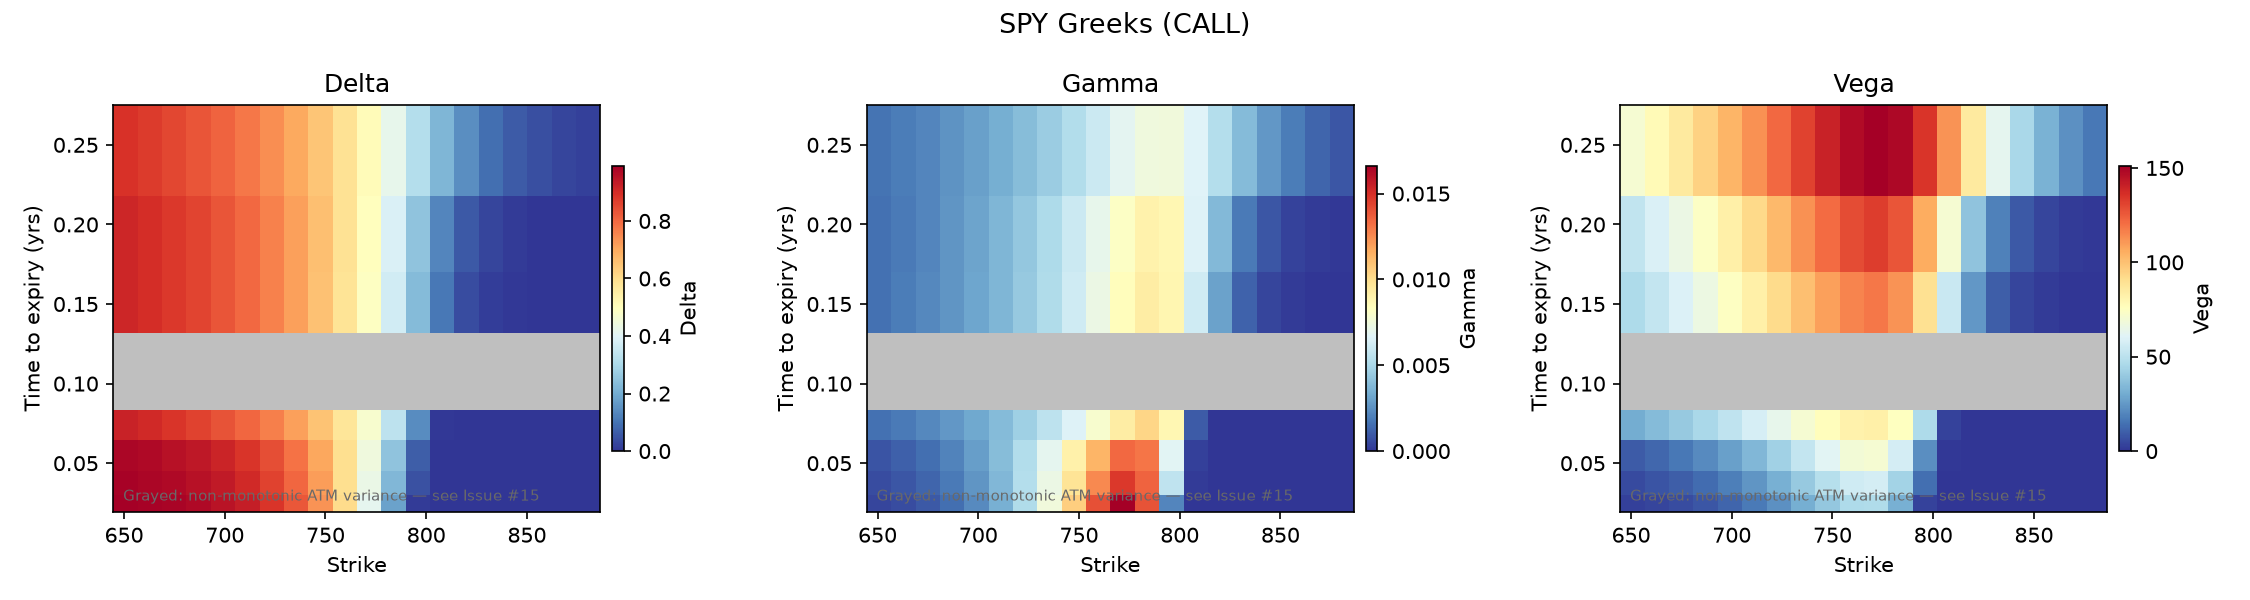
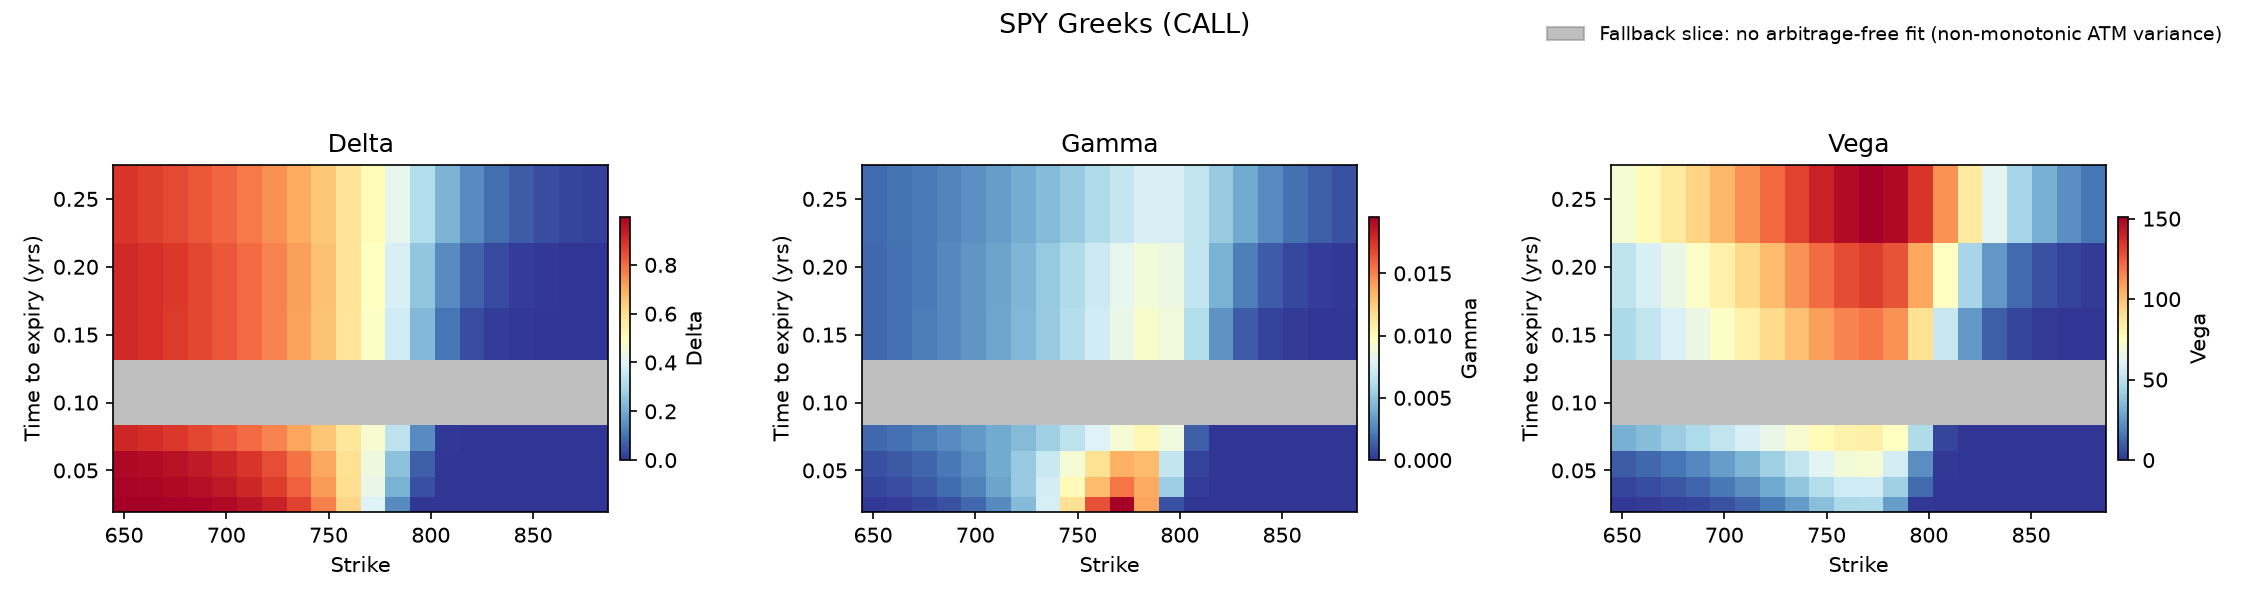
viz: replace in-graph fallback text with a proper legend under the heading
The grayed fallback rows were explained by a dim ax.text() inside the
heatmap, sitting over dark cells and barely visible.  All three plot
modules now draw a real legend entry instead:

- viz/surface.py (IV heatmap) and viz/local_vol.py (Dupire): axes-level
  legend anchored just above the axes, under the title; title pad
  reserves the band so tight_layout keeps it inside the figure.
- viz/risk.py (Greeks): one figure-level legend between the suptitle
  and the panel titles (right-aligned), replacing three per-panel texts.

plotting/masking.py gains FALLBACK_BAD_RGBA + fallback_legend_handle()
as the single source of truth: the legend swatch uses exactly the RGBA
the colormaps paint masked cells with, so swatch and cells cannot
drift.  The three inline copies of the literal are gone.

Regenerated demo PNGs verified visually: legend readable on all three,
no clipping, no title collisions.

diff --git a/src/arbfree_vol/viz/surface.py b/src/arbfree_vol/viz/surface.py
@@ -9,6 +9,10 @@ from matplotlib import cm
 from scipy.interpolate import griddata
 
 from arbfree_vol.models.fitted import FittedSlice
+from arbfree_vol.plotting.masking import (
+    FALLBACK_BAD_RGBA,
+    fallback_legend_handle,
+)
 from arbfree_vol.svi.model import svi_total_variance
 from arbfree_vol.surface.interpolate import FittedSurface, iv_at
 
@@ -207,7 +211,7 @@ def plot_iv_heatmap(
     fallback_slices:
         Optional list of T values that used the eSSVI fallback path.
         If provided, those maturity columns are grayed out in the plot
-        and an annotation is added.
+        and a legend explaining them is added under the plot heading.
     strike_range:
         Optional ``(low, high)`` pair of spot-price multipliers defining
         the strike grid.  Defaults to ``(0.8, 1.2)``.
@@ -238,11 +242,10 @@ def plot_iv_heatmap(
     cmap = matplotlib.colormaps["plasma"].copy()
     if fallback_slices:
         # with_extremes replaces the deprecated set_bad API (matplotlib >= 3.7
-        # deprecation); the bad color is passed as an RGBA tuple because
-        # with_extremes has no alpha keyword. It returns a new colormap rather
-        # than mutating in place, so the result must be assigned back.
-        cmap = cmap.with_extremes(bad=(0.5019607843137255, 0.5019607843137255,
-                                       0.5019607843137255, 0.5))
+        # deprecation). It returns a new colormap rather than mutating in
+        # place, so the result must be assigned back.  The bad RGBA is the
+        # shared fallback gray -- same constant the legend swatch uses.
+        cmap = cmap.with_extremes(bad=FALLBACK_BAD_RGBA)
 
     mesh = ax.pcolormesh(strikes, maturities, iv_grid,
                          cmap=cmap, shading="auto")
@@ -250,19 +253,26 @@ def plot_iv_heatmap(
     cb = fig.colorbar(mesh, ax=ax, shrink=0.7, aspect=25, pad=0.02)
     cb.set_label("Implied volatility")
 
+    # Fallback legend ABOVE the axes (under the heading), not inside the
+    # plot: a legend row here is always readable, unlike an in-graph text
+    # annotation over dark heatmap cells.  The extra title pad reserves
+    # the band between axes top and title for the legend so tight_layout
+    # keeps both inside the figure.
     if fallback_slices:
-        ax.text(
-            0.02, 0.02,
-            "Grayed region: non-monotonic ATM variance — see Issue #15",
-            transform=ax.transAxes,
-            fontsize=8,
-            color="dimgray",
-            verticalalignment="bottom",
+        ax.legend(
+            handles=[fallback_legend_handle()],
+            loc="lower left",
+            bbox_to_anchor=(0.0, 1.01),
+            frameon=False,
+            fontsize=9,
         )
+        title_pad = 30
+    else:
+        title_pad = 6
 
     ax.set_xlabel("Strike")
     ax.set_ylabel("Time to expiry (yrs)")
-    ax.set_title(f"{symbol} implied volatility surface (iv_at)")
+    ax.set_title(f"{symbol} implied volatility surface (iv_at)", pad=title_pad)
 
     fig.tight_layout()
     return fig

diff --git a/src/arbfree_vol/viz/risk.py b/src/arbfree_vol/viz/risk.py
@@ -4,6 +4,10 @@ import numpy as np
 from matplotlib.figure import Figure
 
 from arbfree_vol.models.option import OptionType
+from arbfree_vol.plotting.masking import (
+    FALLBACK_BAD_RGBA,
+    fallback_legend_handle,
+)
 from arbfree_vol.surface.greeks import bucketed_greeks
 from arbfree_vol.surface.interpolate import FittedSurface
 
@@ -34,7 +38,8 @@ def plot_greeks_heatmap(
     fallback_slices:
         Optional list of T values that used the eSSVI fallback path.
         If provided, those maturity rows are grayed out in the heatmap
-        and an annotation is added.
+        If provided, a legend explaining the gray rows is added under the
+        plot heading.
 
     Returns
     -------
@@ -75,12 +80,11 @@ def plot_greeks_heatmap(
         cmap = matplotlib.colormaps["RdYlBu_r"].copy()
         if fallback_slices:
             # with_extremes replaces the deprecated set_bad API (matplotlib
-            # >= 3.7 deprecation); the bad color is passed as an RGBA tuple
-            # because with_extremes has no alpha keyword. It returns a new
-            # colormap rather than mutating in place, so the result must be
-            # assigned back.
-            cmap = cmap.with_extremes(bad=(0.5019607843137255, 0.5019607843137255,
-                                           0.5019607843137255, 0.5))
+            # >= 3.7 deprecation). It returns a new colormap rather than
+            # mutating in place, so the result must be assigned back.  The
+            # bad RGBA is the shared fallback gray -- same constant the
+            # legend swatch uses.
+            cmap = cmap.with_extremes(bad=FALLBACK_BAD_RGBA)
 
         mesh = ax.pcolormesh(strike_mesh, T_mesh, data,
                              cmap=cmap, shading="auto")
@@ -90,16 +94,20 @@ def plot_greeks_heatmap(
         ax.set_ylabel("Time to expiry (yrs)")
         ax.set_title(name.capitalize())
 
-        if fallback_slices:
-            ax.text(
-                0.02, 0.02,
-                "Grayed: non-monotonic ATM variance — see Issue #15",
-                transform=ax.transAxes,
-                fontsize=7,
-                color="dimgray",
-                verticalalignment="bottom",
-            )
-
-    fig.tight_layout()
+    # ONE figure-level fallback legend for all panels, placed in the band
+    # between the suptitle and the panel titles (right-aligned so it never
+    # collides with the centered suptitle).  tight_layout is given a rect
+    # that reserves this band when a legend exists.
+    if fallback_slices:
+        fig.legend(
+            handles=[fallback_legend_handle()],
+            loc="upper right",
+            bbox_to_anchor=(0.995, 0.985),
+            frameon=False,
+            fontsize=9,
+        )
+        fig.tight_layout(rect=(0, 0, 1, 0.90))
+    else:
+        fig.tight_layout()
     return fig
 

diff --git a/src/arbfree_vol/viz/local_vol.py b/src/arbfree_vol/viz/local_vol.py
@@ -3,6 +3,10 @@
 import numpy as np
 from matplotlib.figure import Figure
 
+from arbfree_vol.plotting.masking import (
+    FALLBACK_BAD_RGBA,
+    fallback_legend_handle,
+)
 from arbfree_vol.pricing.local_vol import LocalVolSurface
 
 
@@ -22,7 +26,8 @@ def plot_dupire_heatmap(
         Ticker symbol for the plot title.
     fallback_slices:
         Optional list of T values that used the eSSVI fallback path.
-        If provided, an annotation is added to the plot.  The actual
+        If provided, a legend explaining the gray rows is added under the
+        plot heading.  The actual
         row masking is driven by NaN values in the grid itself —
         ``dupire()`` propagates NaN into any row whose FD stencil
         touches a fallback slice.  This is the single source of truth
@@ -50,11 +55,10 @@ def plot_dupire_heatmap(
     cmap = matplotlib.colormaps["inferno"].copy()
     if has_nan:
         # with_extremes replaces the deprecated set_bad API (matplotlib >= 3.7
-        # deprecation); the bad color is passed as an RGBA tuple because
-        # with_extremes has no alpha keyword. It returns a new colormap rather
-        # than mutating in place, so the result must be assigned back.
-        cmap = cmap.with_extremes(bad=(0.5019607843137255, 0.5019607843137255,
-                                       0.5019607843137255, 0.5))
+        # deprecation). It returns a new colormap rather than mutating in
+        # place, so the result must be assigned back.  The bad RGBA is the
+        # shared fallback gray -- same constant the legend swatch uses.
+        cmap = cmap.with_extremes(bad=FALLBACK_BAD_RGBA)
 
     mesh = ax.pcolormesh(strikes, maturities, grid,
                          cmap=cmap, shading="auto")
@@ -62,19 +66,23 @@ def plot_dupire_heatmap(
     cb = fig.colorbar(mesh, ax=ax, shrink=0.7, aspect=25, pad=0.02)
     cb.set_label("Local volatility")
 
+    # Fallback legend ABOVE the axes (under the heading) — see
+    # viz/surface.py for the layout rationale.
     if fallback_slices:
-        ax.text(
-            0.02, 0.02,
-            "Grayed region: non-monotonic ATM variance — see Issue #15",
-            transform=ax.transAxes,
-            fontsize=8,
-            color="dimgray",
-            verticalalignment="bottom",
+        ax.legend(
+            handles=[fallback_legend_handle()],
+            loc="lower left",
+            bbox_to_anchor=(0.0, 1.01),
+            frameon=False,
+            fontsize=9,
         )
+        title_pad = 30
+    else:
+        title_pad = 6
 
     ax.set_xlabel("Strike")
     ax.set_ylabel("Time to expiry (yrs)")
-    ax.set_title(f"{symbol} Dupire local volatility")
+    ax.set_title(f"{symbol} Dupire local volatility", pad=title_pad)
 
     fig.tight_layout()
     return fig

diff --git a/src/arbfree_vol/plotting/masking.py b/src/arbfree_vol/plotting/masking.py
@@ -53,3 +53,34 @@ def make_fallback_mask(
     mask = np.any(distances <= tol, axis=1)
 
     return mask
+
+
+# ── Shared fallback-gray styling (single source of truth) ────────────
+# The RGBA 'bad' color heatmaps paint fallback cells with, and the
+# legend Patch that explains them.  The legend swatch and the painted
+# cells must never drift apart, so both read this constant.
+FALLBACK_BAD_RGBA: tuple[float, float, float, float] = (
+    0.5019607843137255, 0.5019607843137255, 0.5019607843137255, 0.5,
+)
+
+_FALLBACK_LEGEND_LABEL: str = (
+    "Fallback slice: no arbitrage-free fit (non-monotonic ATM variance)"
+)
+
+
+def fallback_legend_handle():
+    """Return a matplotlib ``Patch`` legend handle for grayed fallback rows.
+
+    The swatch uses :data:`FALLBACK_BAD_RGBA`, i.e. exactly the color the
+    heatmap modules paint masked cells with.  Import of ``matplotlib`` is
+    deferred so non-plotting consumers of :func:`make_fallback_mask` keep
+    a numpy-only import surface.
+    """
+    from matplotlib.patches import Patch
+
+    return Patch(
+        facecolor=FALLBACK_BAD_RGBA[:3],
+        alpha=FALLBACK_BAD_RGBA[3],
+        edgecolor="gray",
+        label=_FALLBACK_LEGEND_LABEL,
+    )
